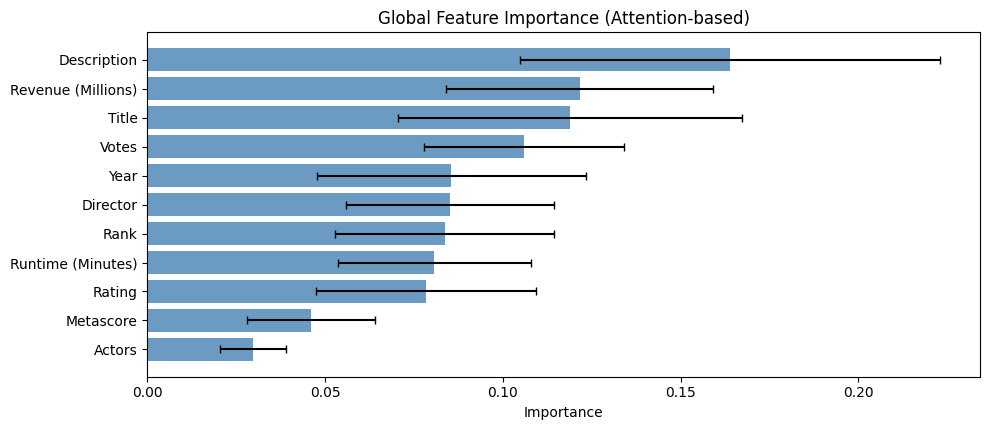
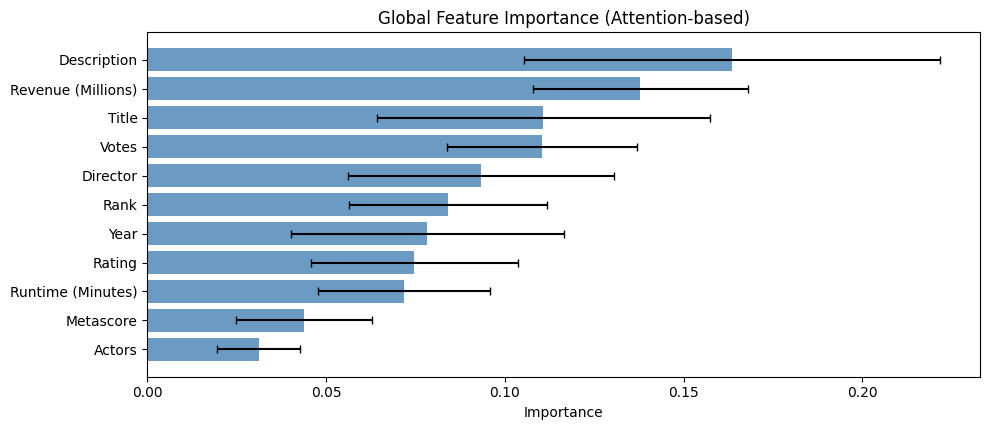
Update README with feature importance example
- Modified README.md with descriptive caption
- Updated global_imp.png image

diff --git a/tabstar_extensions/README.md b/tabstar_extensions/README.md
@@ -73,7 +73,9 @@ explainer.plot_feature_importance(global_imp, top_k=10)
 explainer.plot_attention_heatmap(X_test, sample_idx=0, layer_idx=-1)
 explainer.plot_importance_distribution(local_imp, top_k=10)
 ```
+example ranked feature importance for the IMDB dataset. A TabSTAR classifier is trained to predict (Genre_is_Drama) from following features: 
 ![IMDB dataset Global Importance](./global_imp.png)
+
 ```python
 # Comparing Aggregation Methods
 for agg in ['mean', 'last', 'rollout', 'weighted']:
